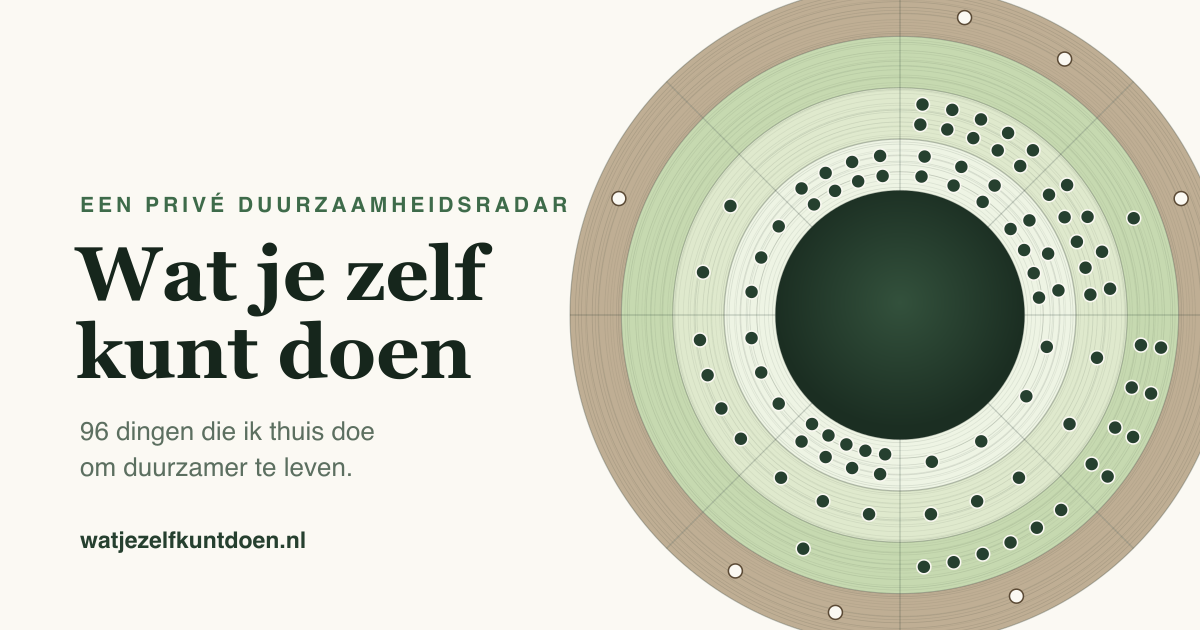
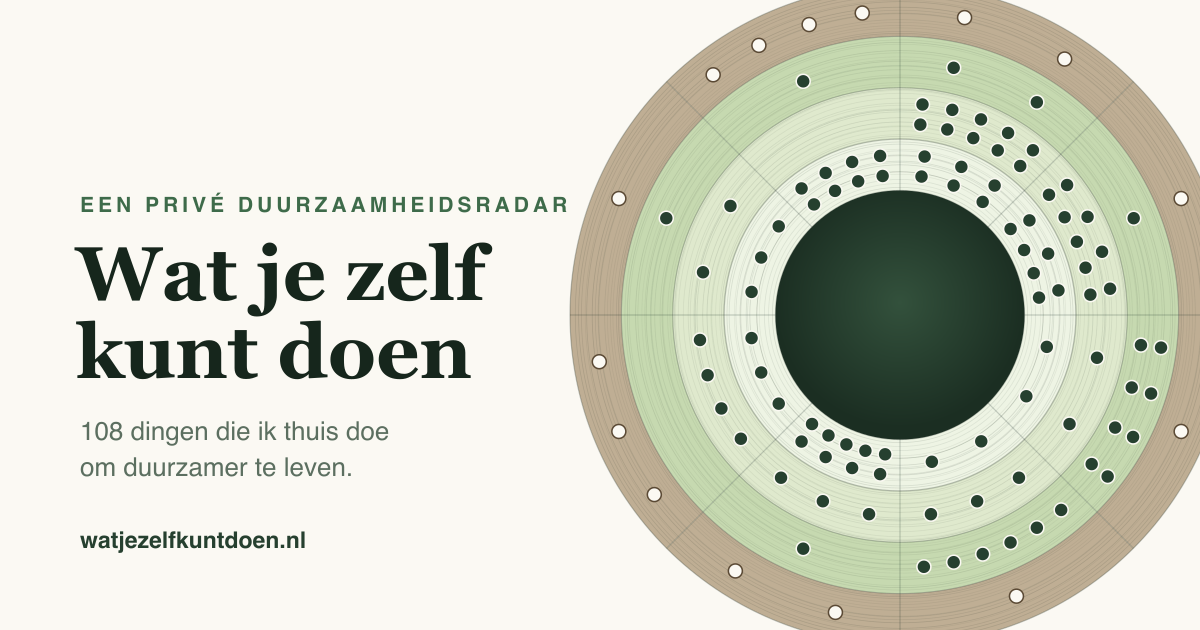
Twaalf items in lege ringen
- Eten, investeer: een goede drinkfles en koffiebeker, een oogstabonnement
  bij een teler in de buurt
- Energie, afscheid: gloeilampen en halogeen
- Geld, afscheid: Black Friday, spaarprogramma's voor vliegmiles, achteraf
  betalen
- Vervoer, investeer: goede regenkleding voor op de fiets
- Buiten, investeer: lid van een natuurorganisatie
- Buiten, afscheid: vuurwerk, ballonnen oplaten, confetti en glitter, de
  wegwerpbarbecue

De ideeënlijst heeft een nieuwe sectie met voorstellen per leeg vakje, en wat
nu op de radar staat is afgevinkt. Nog leeg: Geld · Investeer en Buiten ·
Vervang. Geen stippen overlappen, het deelplaatje is opnieuw gegenereerd
(108 items).

diff --git a/src/data/radar.js b/src/data/radar.js
@@ -206,6 +206,23 @@ export const items = [
     ],
   },
 
+  {
+    segment: 'eten',
+    ring: 'investeer',
+    titel: 'Een goede drinkfles en koffiebeker',
+    tekst:
+      'Wij hebben flessen van Chilly\'s, van RVS. Eén keer kopen, en daarna nooit meer een flesje water of een wegwerpbeker. Bij een koffietentje kun je gewoon vragen of ze je eigen beker willen vullen.',
+    links: [
+      { tekst: 'Chilly\'s', url: 'https://www.chillys.com/' },
+    ],
+  },
+  {
+    segment: 'eten',
+    ring: 'investeer',
+    titel: 'Een oogstabonnement bij een teler in de buurt',
+    tekst:
+      'Wij hebben er een bij PLUK!, lokaal bij ons in de buurt. Je groente komt van een veld dat je kunt aanwijzen, en de teler heeft aan het begin van het seizoen al zekerheid over de afzet. Zoek eens op oogstabonnement of zelfoogsttuin met je eigen woonplaats erbij.',
+  },
   // ---------------------------------------------------------- huishouden
   {
     segment: 'huishouden',
@@ -429,6 +446,13 @@ export const items = [
     tekst: 'De goedkoopste isolatie die er is, en bijna niemand doet het.',
   },
 
+  {
+    segment: 'energie',
+    ring: 'laat',
+    titel: 'Gloeilampen en halogeen',
+    tekst:
+      'Wij hebben ze niet meer in huis. Een ledlamp geeft hetzelfde licht voor een fractie van de stroom en gaat veel langer mee. Zit er nog ergens een halogeenspotje, vervang het dan nu en wacht niet tot hij kapotgaat.',
+  },
   // ---------------------------------------------------------------- tuin
   {
     segment: 'tuin',
@@ -706,6 +730,27 @@ export const items = [
     ],
   },
 
+  {
+    segment: 'geld',
+    ring: 'laat',
+    titel: 'Black Friday',
+    tekst:
+      'Een verschrikkelijke dag. Een hele industrie die je laat kopen wat je gisteren nog niet nodig had, alleen omdat het vandaag in de aanbieding is. Het goedkoopste product is nog altijd het product dat je niet koopt.',
+  },
+  {
+    segment: 'geld',
+    ring: 'laat',
+    titel: 'Spaarprogramma\'s voor vliegmiles',
+    tekst:
+      'Wij doen er niet aan mee. Zo\'n programma is gebouwd om je vaker te laten vliegen: hoe meer je vliegt, hoe meer punten, en die punten zet je weer om in een volgende vlucht.',
+  },
+  {
+    segment: 'geld',
+    ring: 'laat',
+    titel: 'Achteraf betalen',
+    tekst:
+      'Wij doen het niet. Klarna en vergelijkbare diensten maken kopen zo makkelijk dat je er niet meer bij nadenkt, en dat is precies de bedoeling. Alles wat je zonder nadenken koopt, moest wel eerst gemaakt en bij je bezorgd worden.',
+  },
   // ------------------------------------------------------------- vervoer
   {
     segment: 'vervoer',
@@ -749,6 +794,13 @@ export const items = [
       'Eerlijk is eerlijk: ook ik vlieg heel soms. De laatste keer is nu drie jaar geleden. Vraag jezelf echt af of het met het vliegtuig moet. Binnen vijfhonderd kilometer rond Amsterdam kun je bijna overal met de trein komen.',
   },
 
+  {
+    segment: 'vervoer',
+    ring: 'investeer',
+    titel: 'Goede regenkleding voor op de fiets',
+    tekst:
+      'Een regenbroek en een jas die echt waterdicht is. Dan is een bui geen reden meer om toch de auto te pakken, ook niet in november.',
+  },
   // -------------------------------------------------------------- buiten
   {
     segment: 'buiten',
@@ -819,5 +871,46 @@ export const items = [
     titel: 'Deze site',
     tekst:
       'Het gaat er niet om dat jij één wc-blokje laat staan. Het gaat erom dat je laat zien dat het kan. Daarom staat dit hier.',
+  },
+  {
+    segment: 'buiten',
+    ring: 'investeer',
+    titel: 'Word lid van een natuurorganisatie',
+    tekst:
+      'Wij zijn lid van Zuid-Hollands Landschap en Natuurmonumenten. Van dat geld kopen en beheren ze natuurgebieden, en hoe meer leden ze hebben, hoe zwaarder hun stem weegt als er over die natuur besloten wordt. Elke provincie heeft een eigen landschapsorganisatie.',
+    links: [
+      { tekst: 'Zuid-Hollands Landschap', url: 'https://www.zuidhollandslandschap.nl/' },
+      { tekst: 'Natuurmonumenten', url: 'https://www.natuurmonumenten.nl/' },
+    ],
+  },
+  {
+    segment: 'buiten',
+    ring: 'laat',
+    titel: 'Vuurwerk',
+    tekst:
+      'Wij steken het niet af. Op oudejaarsnacht is de lucht vaak vuiler dan op welke andere dag van het jaar ook, dieren raken in paniek, en op 1 januari ligt de rommel overal: in de goot, in de bosjes, in de sloot.',
+  },
+  {
+    segment: 'buiten',
+    ring: 'laat',
+    titel: 'Ballonnen oplaten',
+    tekst:
+      'Ik vind ze overal: in de bosjes en op het strand. Mensen staan er niet bij stil dat zo\'n ballon ergens weer naar beneden komt, en dat is bijna altijd in de natuur of in zee.',
+    waarom:
+      'Een ballon die je loslaat is uit je zicht, en daarmee voelt hij ook weg. Maar hij komt kilometers verderop weer naar beneden, leeggelopen of geknapt, soms nog met het lint eraan. Vogels en zeedieren zien de resten aan voor voedsel of raken erin verstrikt. Steeds meer gemeenten verbieden het oplaten daarom.\n\nAls ik door de bosjes of over het strand loop, raap ik ze op, en het zijn er echt veel. Wil je bij een feest of een afscheid iets symbolisch doen, plant dan een boom of blaas bellen. Dat blijft niet in een duin liggen.',
+  },
+  {
+    segment: 'buiten',
+    ring: 'laat',
+    titel: 'Confetti en glitter',
+    tekst:
+      'Bijna altijd plastic, en dus rommel. Het waait de tuin, de goot en de sloot in en blijft daar liggen. Wil je toch iets strooien, neem dan confetti van papier of gedroogde bloemblaadjes.',
+  },
+  {
+    segment: 'buiten',
+    ring: 'laat',
+    titel: 'De wegwerpbarbecue',
+    tekst:
+      'Eén keer gebruiken en weggooien: een aluminium bakje, een lading houtskool en een verschroeide plek in het gras. In een droge zomer is het bovendien gevaarlijk. Wil je buiten barbecueën, neem dan een kleine barbecue mee die je jaren blijft gebruiken.',
   },
 ];

diff --git a/docs/mogelijke-aanvullingen.md b/docs/mogelijke-aanvullingen.md
@@ -103,3 +103,81 @@ Sterker wordt het als er ook keuzes in staan die jullie zélf lastig vinden of
 waar je van afziet. Denk aan: wel een auto hebben, af en toe toch vliegen, een
 huisdier, of CO2-compensatie die je bewust niet koopt omdat je er niet in
 gelooft. Dat maakt de rest van de radar geloofwaardiger dan welk cijfer ook.
+
+---
+
+## 10. Lege ringen (peildatum 2026-11-18, bij 96 items)
+
+Acht vakjes op de radar zijn nog leeg. Hieronder per vakje een paar dingen
+die bij jullie zouden kunnen passen. Zelfde regel als hierboven: alleen wat
+jullie echt doen gaat de radar op.
+
+Met ✓ gemarkeerd: staat sinds 2026-11-18 op de radar. Daarna zijn nog twee
+vakjes leeg: Geld · Investeer en Buiten je huishouden · Vervang.
+
+### Boodschappen & eten · Investeer één keer
+
+- ✓ Een oogstaandeel bij een zelfoogstboerderij of Herenboeren: één keer
+  instappen, daarna wekelijks je groente halen bij een boer die je kent
+- Weckpotten en één zaterdag leren inmaken of fermenteren, zodat de oogst van
+  de zomer de winter haalt
+- ✓ Een goede drinkfles en koffiebeker die altijd mee gaan
+
+### Energie & warmte · Afscheid
+
+- De gasaansluiting opzeggen, als jullie met warmtepomp en inductie helemaal
+  van het gas af zijn
+- Een tweede koelkast of vriezer in de schuur of garage
+- Een terrasverwarmer
+- ✓ Gloeilampen en halogeen
+- Let op: een houtkachel of open haard zou hier ook passen, maar dat botst met
+  het item over aanmaakblokjes. Alleen opnemen als het klopt
+
+### Geld · Investeer één keer
+
+- Lid worden van een energiecoöperatie, bijvoorbeeld via een postcoderoos of
+  een lokaal wind- of zonnepark
+- Een periodieke gift aan een natuurorganisatie: één keer voor minstens vijf
+  jaar vastleggen, dan is hij zonder drempel aftrekbaar
+- Verduurzaming financieren via de hypotheek of het Nationaal Warmtefonds
+- Een goed doel in je testament
+
+### Geld · Afscheid
+
+- ✓ Achteraf betalen, zoals Klarna. Maakt kopen te makkelijk
+- ✓ Black Friday en andere kortingsdagen
+- Crypto die op mining draait, zoals bitcoin, vanwege het stroomverbruik
+- ✓ Spaarprogramma's voor vliegmiles
+
+### Vervoer & reizen · Investeer één keer
+
+- Een slimme laadpaal die laadt als de zon op het dak staat
+- Een e-bike of speed pedelec, waarmee 8 tot 13 kilometer naar je werk geen
+  probleem meer is
+- ✓ Goede regenkleding en fietstassen, zodat de fiets ook in november de
+  standaard blijft
+- Een NS-dalabonnement
+
+### Buiten je huishouden · Vervang
+
+- Bij de winkel om de hoek kopen in plaats van bij bol of Amazon
+- Een huurkerstboom in een pot, die na de feestdagen weer terug de grond in
+  gaat
+- Ecosia als zoekmachine. Eerlijk erbij zeggen dat het effect klein is
+- Op het werk vragen om standaard vegetarisch bij de lunch of borrel.
+  Algemeen houden, niet te koppelen aan een werkgever
+
+### Buiten je huishouden · Investeer één keer
+
+- Een geveltuin aanleggen of een boomspiegel adopteren
+- Een minibieb voor de deur
+- ✓ Lid worden van een natuurorganisatie, zoals Natuurmonumenten of de
+  Vogelbescherming
+- Inspreken of bezwaar maken bij de gemeente als er gekapt of verhard wordt
+
+### Buiten je huishouden · Afscheid
+
+- ✓ Vuurwerk
+- ✓ Ballonnen oplaten
+- ✓ Confetti en glitter, dat is gewoon microplastic
+- ✓ De wegwerpbarbecue in het park
